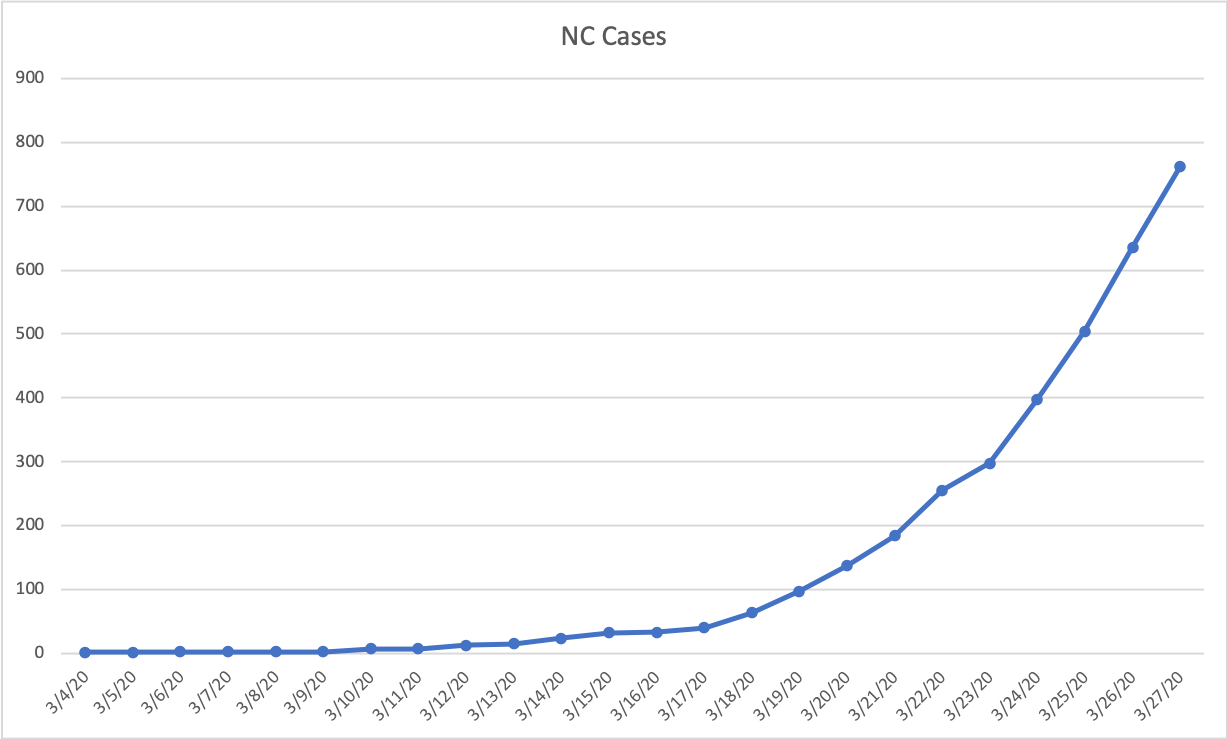
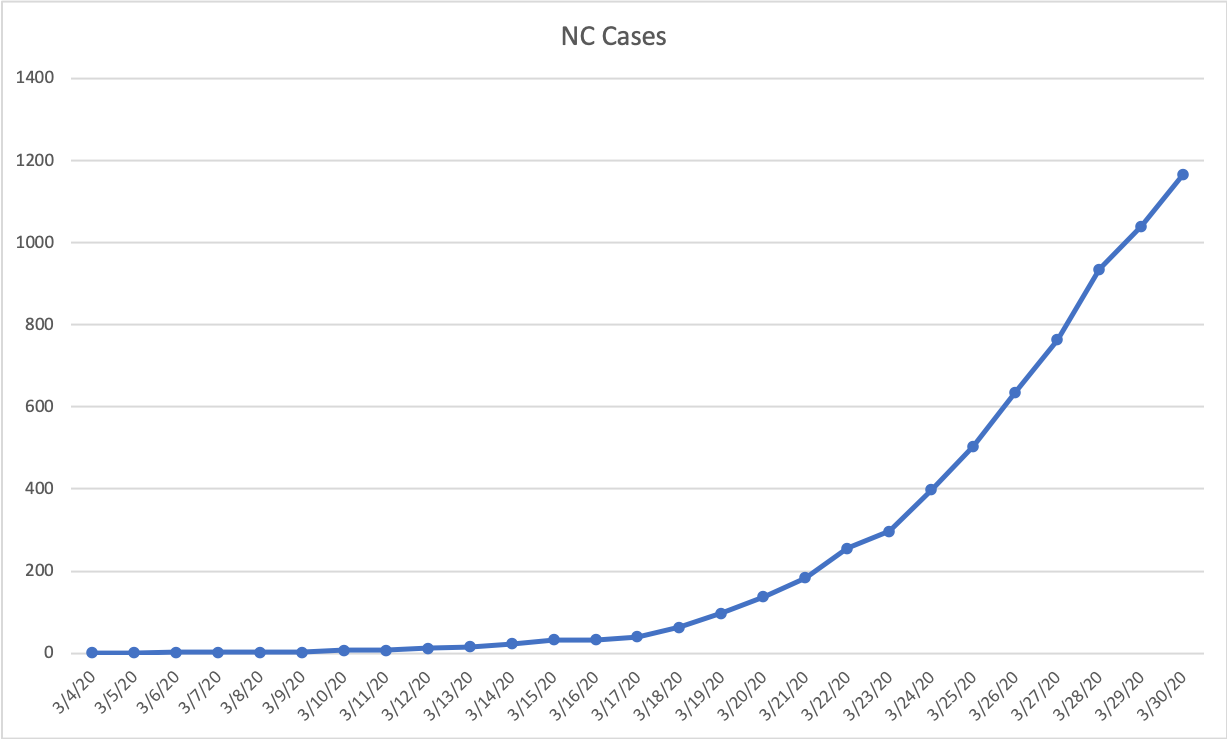
Daily update

diff --git a/README.md b/README.md
@@ -1,7 +1,7 @@
 # COVID-19 NC Case Growth
 Visualizing COVID-19 Case Growth in NC
 
-> *Last Updated:* 3/26/20 at 2:40 PM ET
+> *Last Updated:* 3/30/20 at 11:01 AM ET
 
 > *Data Source:* https://covidtracking.com
 
